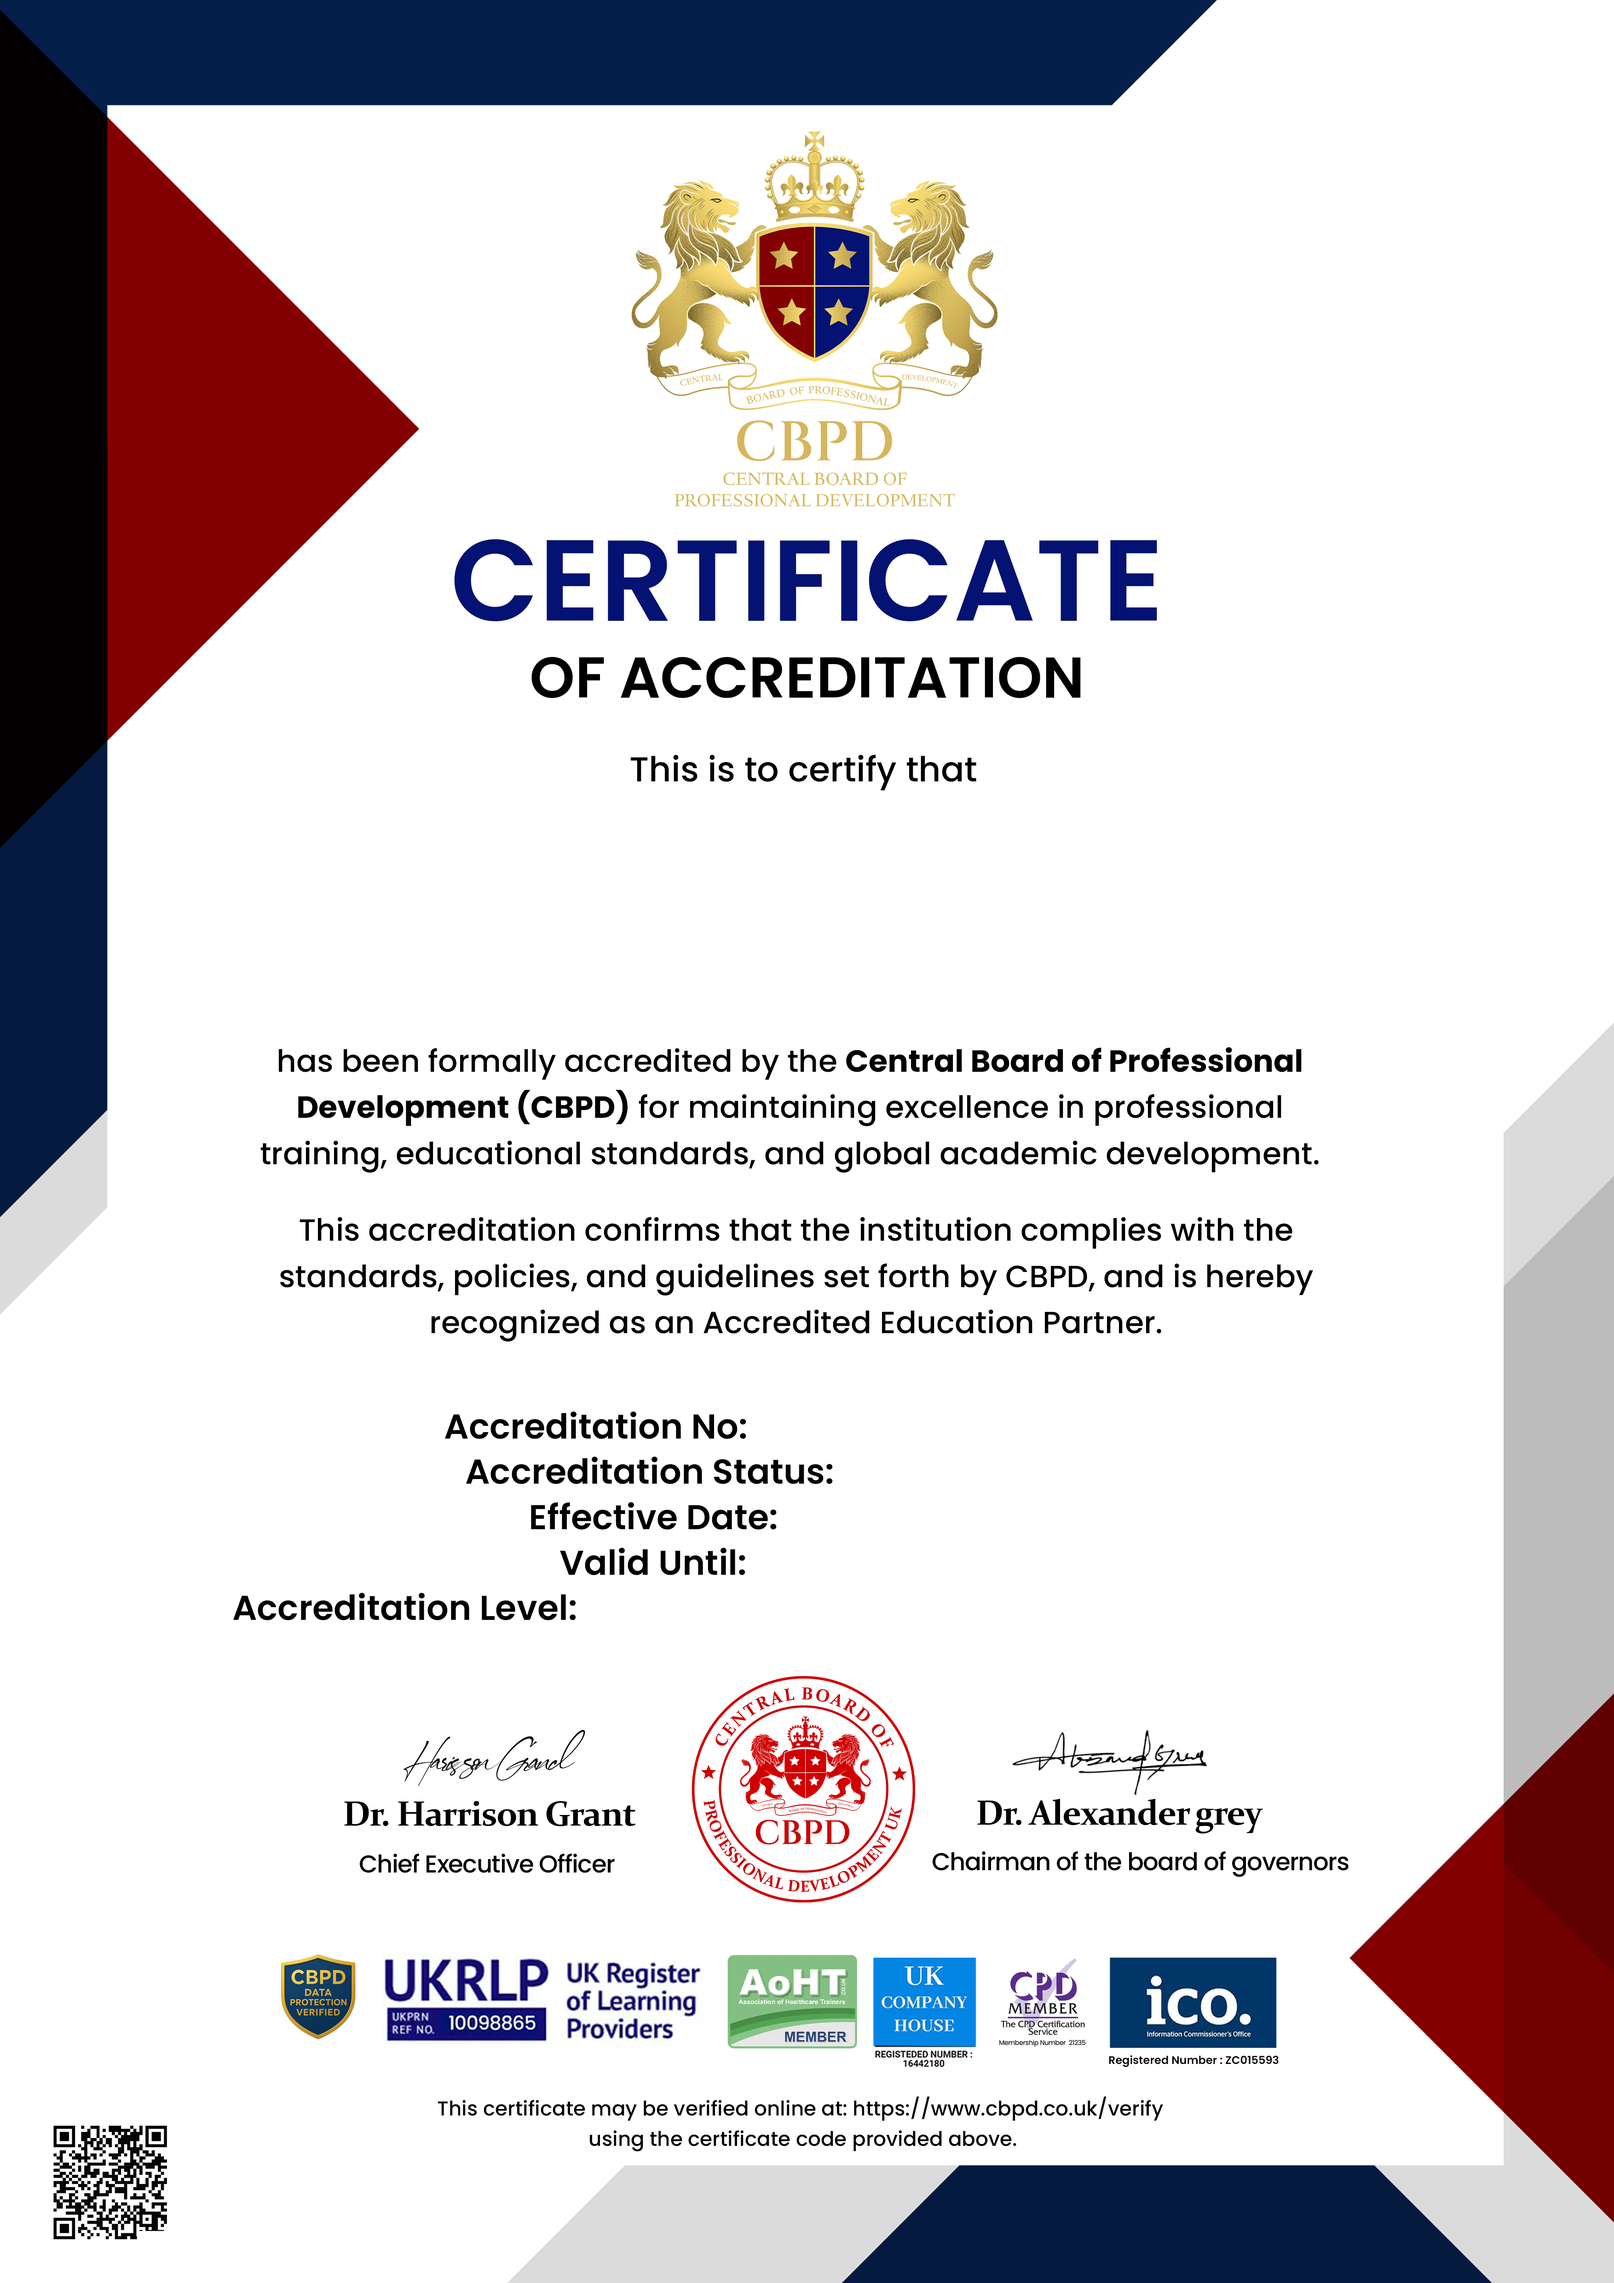
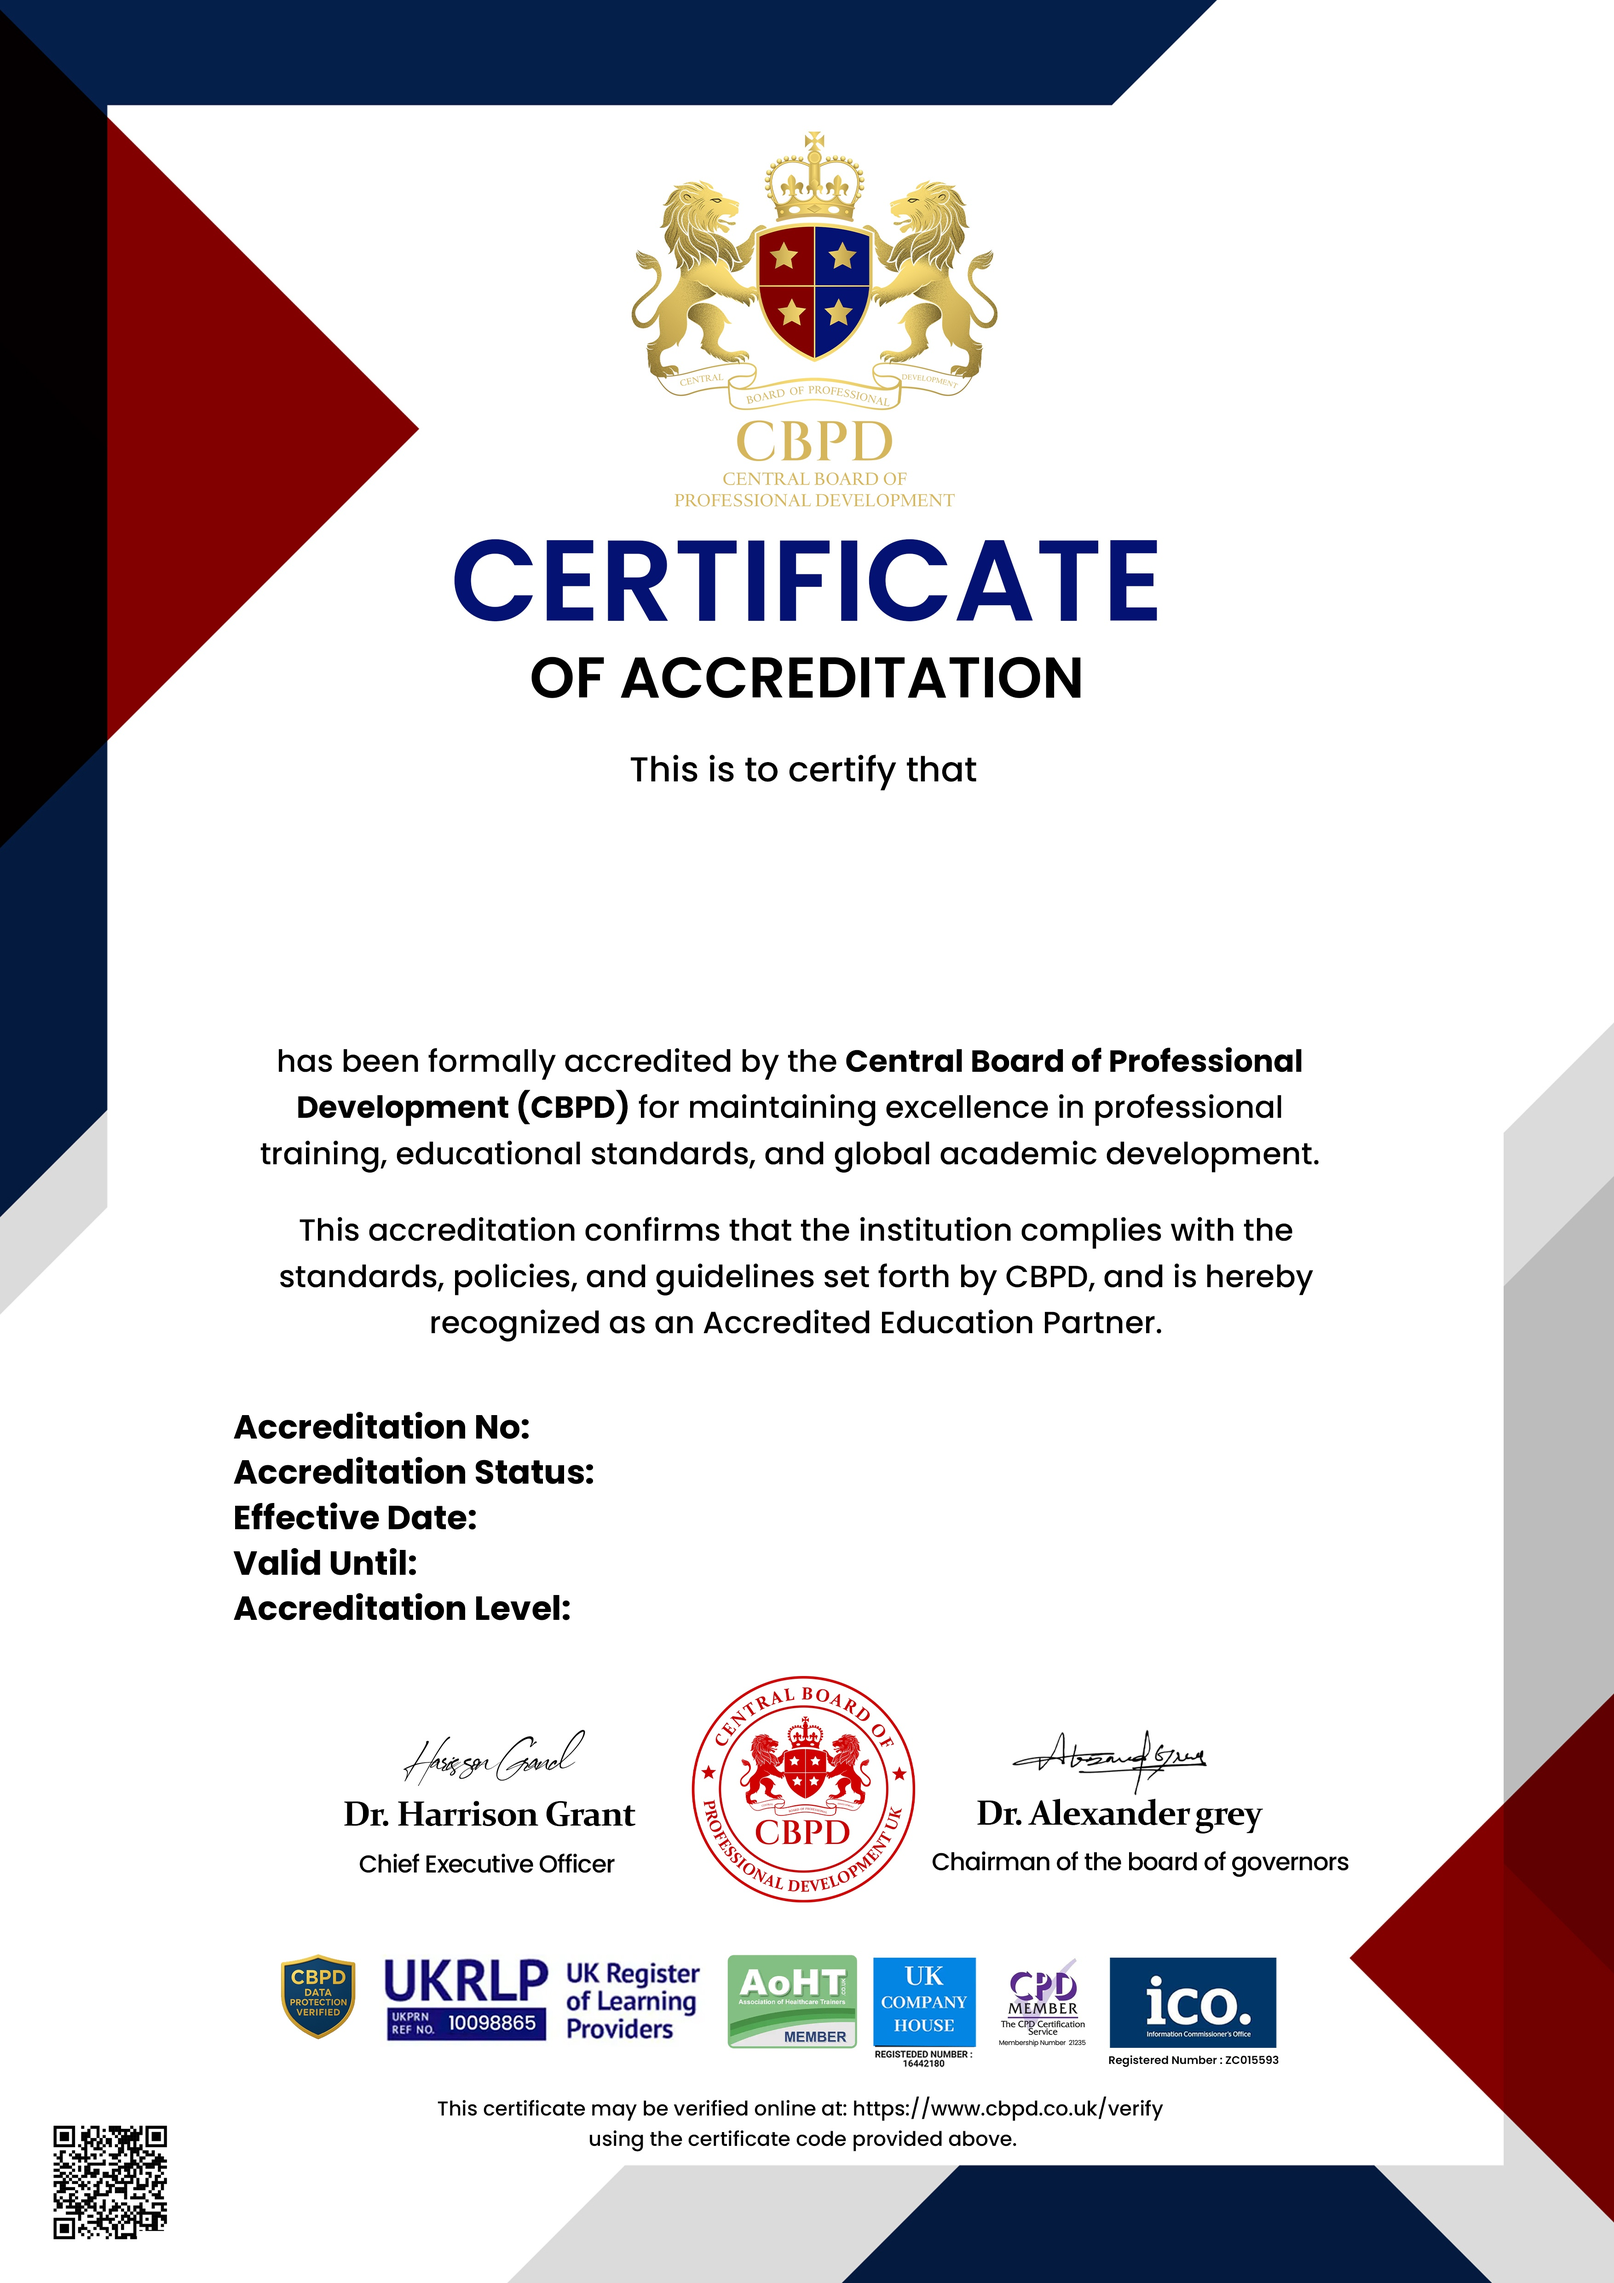
Align accreditation values flush right

Changed region(s): [[0.1243, 0.6249, 0.4971, 0.7186], [0.4661, 0.7498, 0.5282, 0.7811], [0.1864, 0.8748, 0.2175, 0.9061]]

diff --git a/src/styles/certificate-generator.css b/src/styles/certificate-generator.css
@@ -287,16 +287,17 @@
 .accreditation-canvas .valid-until,
 .accreditation-canvas .accreditation-level {
   transform: none;
-  width: 245px;
+  width: 250px;
   font-size: 12px;
   font-weight: 600;
+  text-align: right;
 }
 
-.accreditation-canvas .accreditation-no { top: 484px; left: 315px; }
-.accreditation-canvas .accreditation-status { top: 499px; left: 315px; }
-.accreditation-canvas .effective-date { top: 516px; left: 315px; }
-.accreditation-canvas .valid-until { top: 531px; left: 315px; }
-.accreditation-canvas .accreditation-level { top: 547px; left: 315px; width: 200px; }
+.accreditation-canvas .accreditation-no { top: 484px; right: 60px; }
+.accreditation-canvas .accreditation-status { top: 499px; right: 60px; }
+.accreditation-canvas .effective-date { top: 516px; right: 60px; }
+.accreditation-canvas .valid-until { top: 531px; right: 60px; }
+.accreditation-canvas .accreditation-level { top: 547px; right: 60px; }
 
 /* Membership certificate canvas (matches membership-cert-reference proportion). */
 .membership-canvas {
